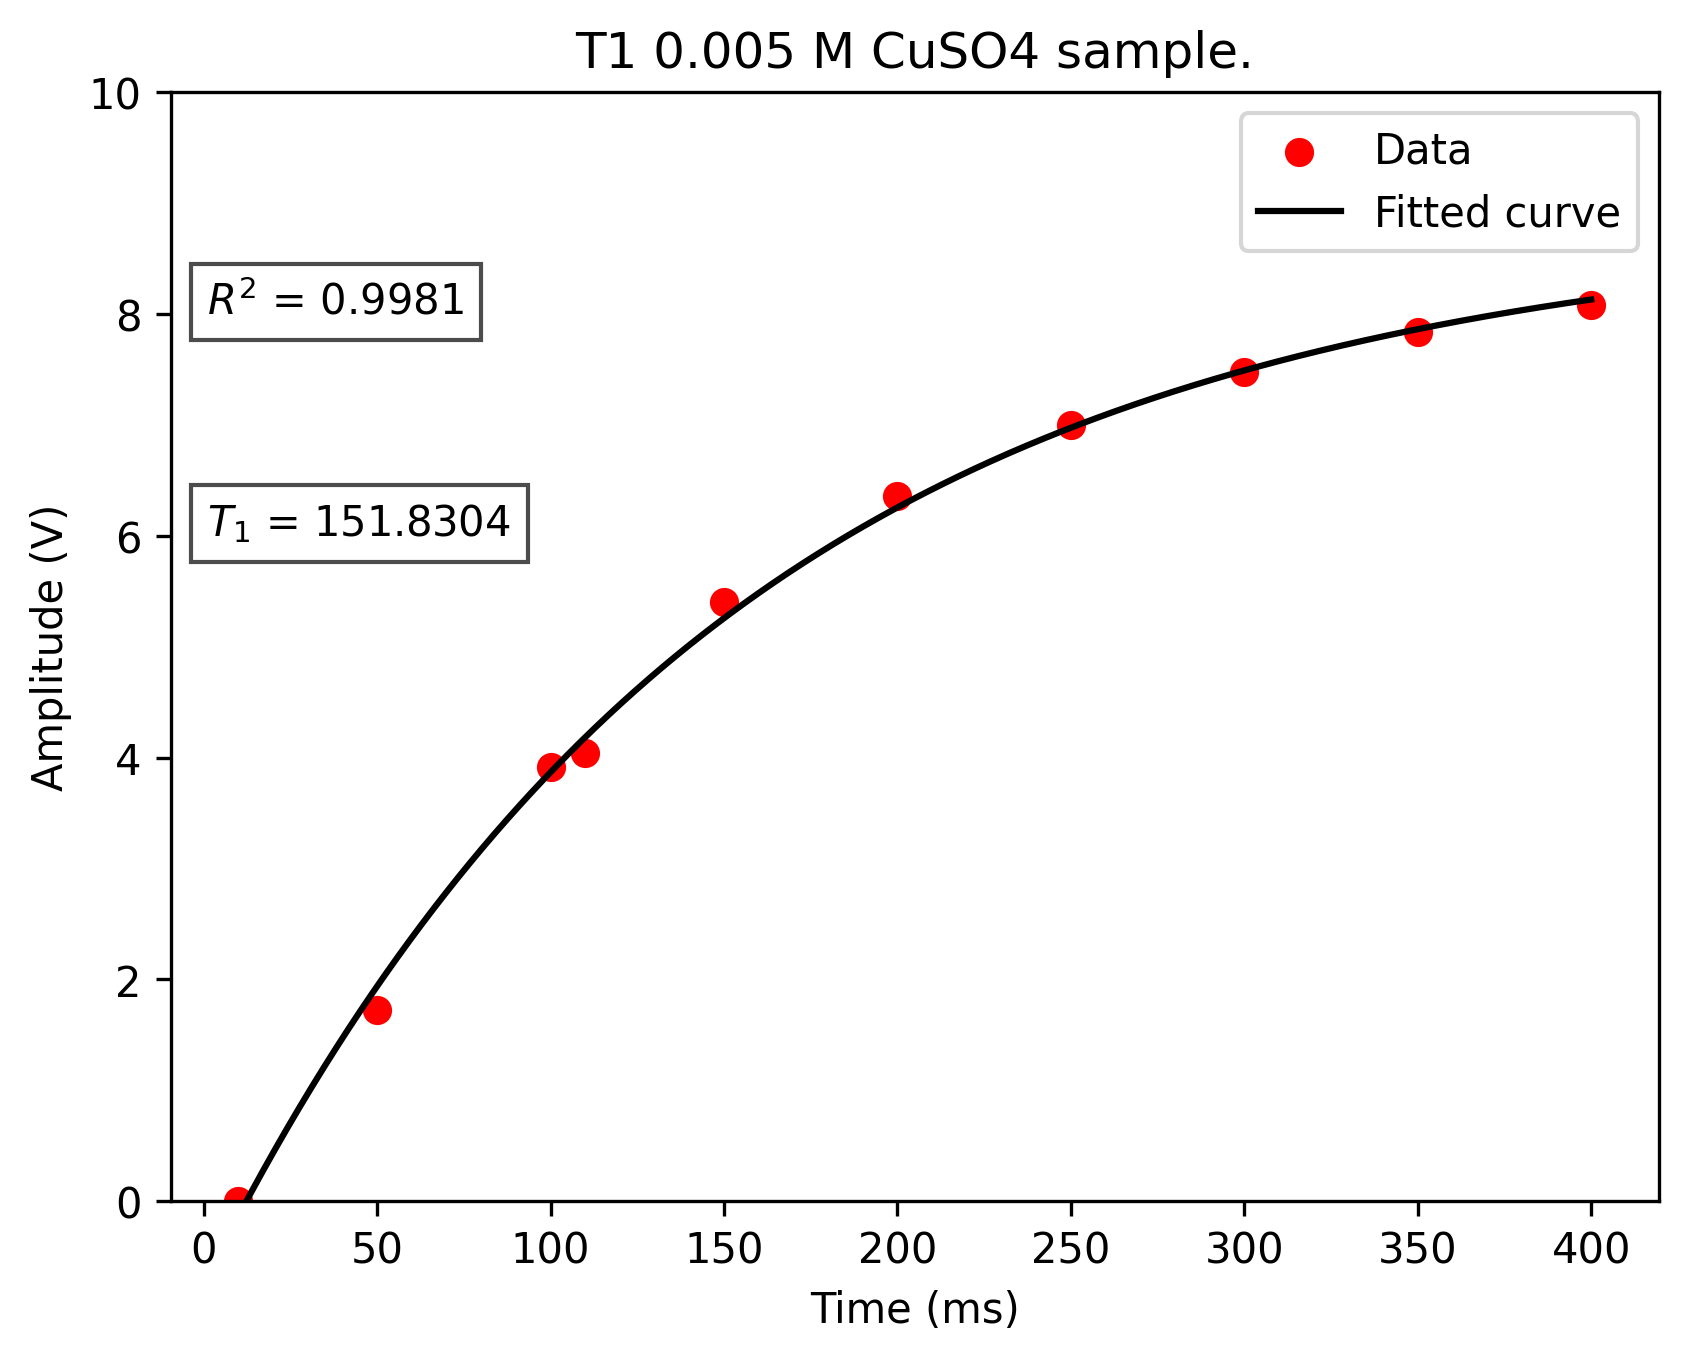
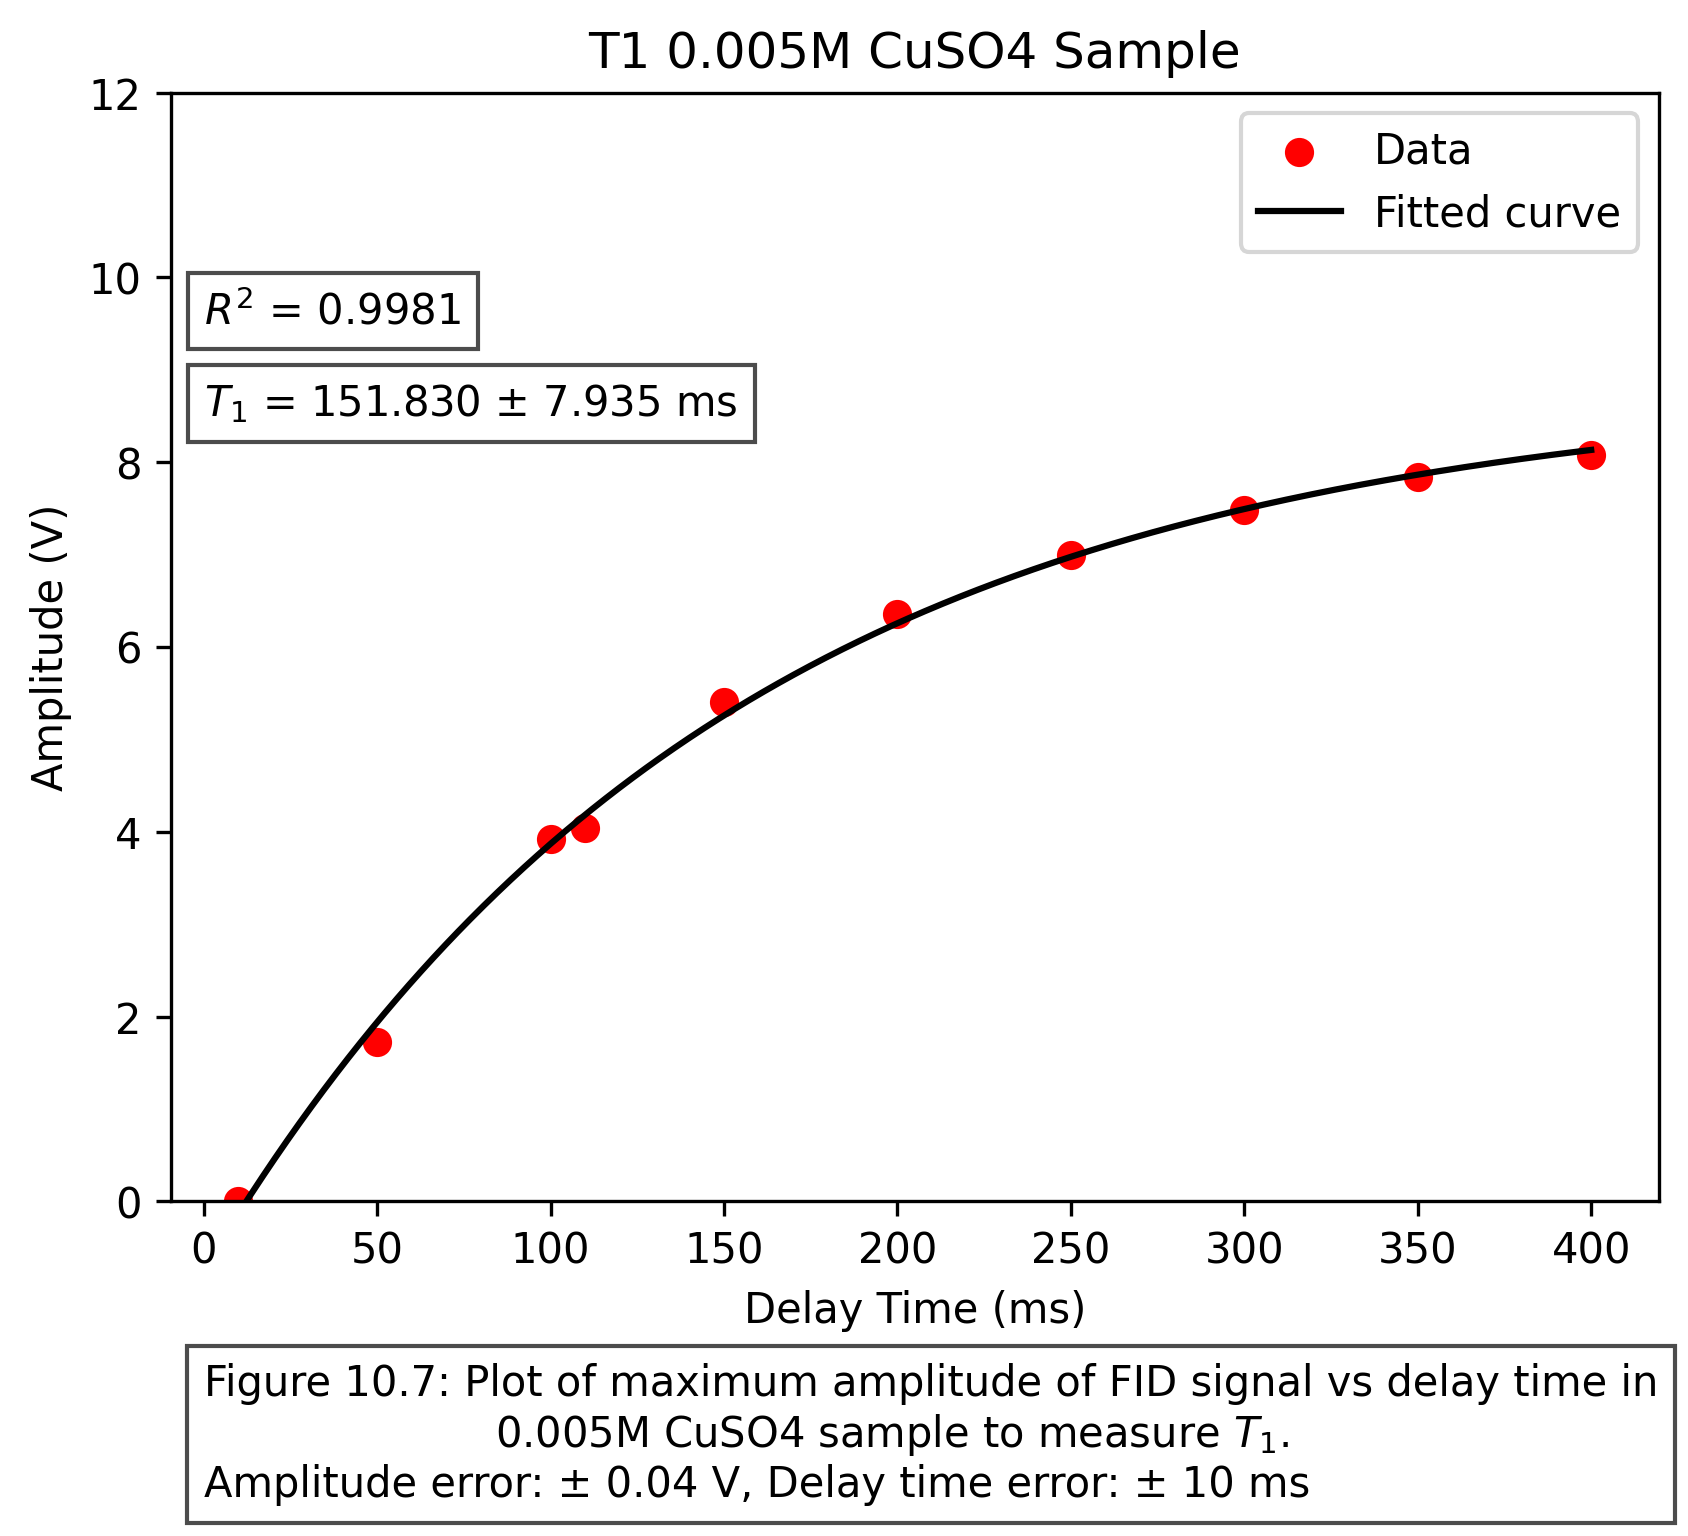
ahhhhhh

diff --git a/T1mineraloil.py b/T1mineraloil.py
@@ -1,48 +1,65 @@
-import matplotlib.pyplot as plt # matplotlib is the plotting package
-import csv # This is for reading .csv files
-import numpy as np # For large arrays and functions that operate on them
-from scipy.optimize import curve_fit # For various special functions, optimization, linear algebra, integration
+import matplotlib.pyplot as plt  # For plotting
+import numpy as np  # For numerical operations
+from scipy.optimize import curve_fit  # For curve fitting
+from scipy.stats import sem  # For standard error calculation
 
-time = [10, 50, 100, 110, 150, 200, 250, 300, 350, 400]
-amplitude = [-4.04, -2.32, -0.12, 0.00, 1.36, 2.32, 2.96, 3.44, 3.80, 4.04]
+# Given data
+time = np.array([10, 50, 100, 110, 150, 200, 250, 300, 350, 400])
+amplitude = np.array([-4.04, -2.32, -0.12, 0.00, 1.36, 2.32, 2.96, 3.44, 3.80, 4.04])
 
-amplitude = [val + np.abs(amplitude[0]) for val in amplitude]
+# Shift amplitude values to positive domain
+amplitude = amplitude + np.abs(amplitude[0])
 
-def f(t, a, tau, c): # Here we define the function used in the fit
-    return a * (1-np.exp(-t/tau)) + c
+# Define fitting function
+def f(t, a, tau, c):
+    return a * (1 - np.exp(-t / tau)) + c
 
-initial_values = np.array([4.2, 120, 0]) # We create an array from expected initial values
+# Initial guess for curve fitting
+initial_values = np.array([3.5, 0.7, 0.0])
 
-popt, pcov = curve_fit(f, time, amplitude, p0 = initial_values) # Fit the function
-a = popt[0] # popt is a list of the optimized values for the fit parameters
-tau = popt[1]
-c = popt[2]
-p_sigma = np.sqrt(np.diag(pcov)) # Error (standard deviation) is the square root of variance in the diagonals of pcov matrix
-print(popt) # Prints the values for the fit parameters
-print(p_sigma) # Prints the errors for the fit parameters
+# Fit the function
+popt, pcov = curve_fit(f, time, amplitude, p0=initial_values)
 
-# Calculate R2 value
-y_pred = f(np.array(time), *popt)
-y_true = np.array(amplitude)
-ss_res = np.sum((y_true - y_pred) ** 2)
-ss_tot = np.sum((y_true - np.mean(y_true)) ** 2)
+# Extract fitted parameters and their uncertainties
+a, tau, c = popt
+p_sigma = np.sqrt(np.diag(pcov))  # Standard deviation (errors) from covariance matrix
+tau_error = round(p_sigma[1], 3)  # Extract error in T1 and round to 3 significant figures
+
+# Compute R² value for goodness of fit
+y_pred = f(time, *popt)
+ss_res = np.sum((amplitude - y_pred) ** 2)
+ss_tot = np.sum((amplitude - np.mean(amplitude)) ** 2)
 r2 = 1 - (ss_res / ss_tot)
 
-x_fitted = np.linspace(np.min(time), np.max(time), 1000) # Create an array from the time limits with 1000 items
-y_fitted = a * (1 - np.exp(-x_fitted/tau)) + c # Create the fitted curve
-plt.scatter(time, amplitude, c = 'r', label = 'Data') # Makes the plot
-plt.plot(x_fitted, y_fitted, 'k', label = 'Fitted curve') # Plots the fit curve
-plt.ylim(0, 10) # Set y-axis limits
-plt.title('T1 0.005 M CuSO4 sample.')
-plt.xlabel('Time (ms)') # The x-axis label
-plt.ylabel('Amplitude (V)') # The y-axis label
-plt.legend() # Show legend
+# Compute standard error of amplitude (optional but adds more error estimation)
+amplitude_error = round(sem(amplitude), 3)
 
-# Display R2 value on the plot
-plt.text(1.0, 8.0, f'$R^2$ = {r2:.4f}', fontsize=10, bbox=dict(facecolor='white', alpha=0.7))
-plt.text(1.0, 6.0, f'$T_1$ = {tau:.4f}', fontsize=10, bbox=dict(facecolor='white', alpha=0.7))
+# Generate smooth curve for fitted function
+x_fitted = np.linspace(np.min(time), np.max(time), 1000)
+y_fitted = f(x_fitted, *popt)
 
+# Plot data and fitted curve
+plt.scatter(time, amplitude, c='r', label='Data')
+plt.plot(x_fitted, y_fitted, 'k', label='Fitted curve')
+plt.ylim(0, 12)
+plt.title('T1 0.005M CuSO4 Sample')
+plt.xlabel('Delay Time (ms)')
+plt.ylabel('Amplitude (V)')
+plt.legend()
+
+# Display R² and T1 values with errors
+plt.text(0.2, 9.5, f'$R^2$ = {r2:.4f}', fontsize=10, bbox=dict(facecolor='white', alpha=0.7))
+plt.text(0.2, 8.5, f'$T_1$ = {tau:.3f} ± {tau_error} ms', fontsize=10, bbox=dict(facecolor='white', alpha=0.7))
+plt.text(0.0, -3.2, f'Figure 10.7: Plot of maximum amplitude of FID signal vs delay time in\n' 
+                    f'                      0.005M CuSO4 sample to measure $T_1$.\n'
+                    f'Amplitude error: ± 0.04 V, Delay time error: ± 10 ms',
+         fontsize=10, bbox=dict(facecolor='white', alpha=0.7))
+
+
+# Save and display plot
 plt.savefig('T1_CuSO4_0005M.png', dpi=300, bbox_inches='tight')
 plt.show()
 
 print("Plot saved.")
+print(f"T1 = {tau:.3f} ± {tau_error} ms")
+print(f"Amplitude SEM = ± {amplitude_error} V")

diff --git a/T2mineraloil.py b/T2mineraloil.py
@@ -1,45 +1,62 @@
-import matplotlib.pyplot as plt # matplotlib is the plotting package
-import csv # This is for reading .csv files
-import numpy as np # For large arrays and functions that operate on them
-from scipy.optimize import curve_fit # For various special functions, optimization, linear algebra, integration
+import matplotlib.pyplot as plt  # For plotting
+import numpy as np  # For numerical operations
+from scipy.optimize import curve_fit  # For curve fitting
+from scipy.stats import sem  # For standard error calculation
 
-time = [3.1, 6.2, 9.3, 12.4, 15.5, 18.6, 21.7, 24.8, 27.9, 31, 34.1, 37.2, 40.3, 43.4]
-amplitude = [6.24, 6.00, 5.76, 5.48, 5.24, 5.04, 4.80, 4.68, 4.44, 4.32, 4.16, 3.96, 3.80, 3.72]
+# Given Data
+time = np.array([3.1, 9.3, 15.5, 21.7, 27.9, 34.1, 40.3, 46.5, 52.7, 58.9, 65.1, 71.3, 77.5, 83.7])
+amplitude = np.array([6.20, 6.00, 5.76, 5.48, 5.24, 5.04, 4.80, 4.68, 4.44, 4.32, 4.16, 3.96, 3.80, 3.72])
 
-def f(t, a, tau, c): # Here we define the function used in the fit
-    return a * np.exp(-t/tau) + c
+# Define fitting function for T2 decay
+def f(t, a, tau, c):  
+    return a * np.exp(-t / tau) + c
 
-initial_values = np.array([6, 10, 1.5]) # We create an array from expected initial values
+# Initial guess for curve fitting
+initial_values = np.array([3.6, 1.0, 0.3])  
 
-popt, pcov = curve_fit(f, time, amplitude, p0 = initial_values) # Fit the function
-a = popt[0] # popt is a list of the optimized values for the fit parameters
-tau = popt[1]
-c = popt[2]
-p_sigma = np.sqrt(np.diag(pcov)) # Error (standard deviation) is the square root of variance in the diagonals of pcov matrix
-print(popt) # Prints the values for the fit parameters
-print(p_sigma) # Prints the errors for the fit parameters
+# Fit the function to data
+popt, pcov = curve_fit(f, time, amplitude, p0=initial_values)
 
-# Calculate R2 value
-y_pred = f(np.array(time), *popt)
-y_true = np.array(amplitude)
-ss_res = np.sum((y_true - y_pred) ** 2)
-ss_tot = np.sum((y_true - np.mean(y_true)) ** 2)
+# Extract fitted parameters and their uncertainties
+a, tau, c = popt
+p_sigma = np.sqrt(np.diag(pcov))  # Standard deviation (errors) from covariance matrix
+tau_error = round(p_sigma[1], 3)  # Extract error in T2 and round to 3 significant figures
+
+# Compute R² value for goodness of fit
+y_pred = f(time, *popt)
+ss_res = np.sum((amplitude - y_pred) ** 2)
+ss_tot = np.sum((amplitude - np.mean(amplitude)) ** 2)
 r2 = 1 - (ss_res / ss_tot)
 
-x_fitted = np.linspace(np.min(time), np.max(time), 1000) # Create an array from the time limits with 1000 items
-y_fitted = a * np.exp(-x_fitted/tau) + c # Create the fitted curve
-plt.scatter(time, amplitude, c = 'r', label = 'Data') # Makes the plot
-plt.plot(x_fitted, y_fitted, 'k', label = 'Fitted curve') # Plots the fit curve
-plt.ylim(0, 7) # Set y-axis limits
-plt.xlabel('Time (ms)') # The x-axis label
-plt.ylabel('Amplitude (V)') # The y-axis label
-plt.legend() # Show legend
+# Compute standard error of amplitude
+amplitude_error = round(sem(amplitude), 3)
 
-# Display R2 value on the plot
-plt.text(1.0, 2.5, f'$R^2$ = {r2:.4f}', fontsize=10, bbox=dict(facecolor='white', alpha=0.7))
-plt.text(1.0, 3.0, f'$T_2$ = {tau:.4f}', fontsize=10, bbox=dict(facecolor='white', alpha=0.7))
+# Generate smooth curve for fitted function
+x_fitted = np.linspace(np.min(time), np.max(time), 1000)
+y_fitted = f(x_fitted, *popt)
 
+# Plot data and fitted curve
+plt.scatter(time, amplitude, c='r', label='Data')
+plt.plot(x_fitted, y_fitted, 'k', label='Fitted curve')
+plt.ylim(0, 7)
+plt.title('T2 0.005M CuSO4 Sample')
+plt.xlabel('Delay Time (ms)')
+plt.ylabel('Amplitude (V)')
+plt.legend()
+
+# Display calculated values on the plot
+plt.text(0.2, 2.7, f'$R^2$ = {r2:.4f}', fontsize=10, bbox=dict(facecolor='white', alpha=0.7))
+plt.text(0.2, 2.2, f'$T_2$ = {tau:.3f} ± {tau_error} ms', fontsize=10, bbox=dict(facecolor='white', alpha=0.7))
+plt.text(0.0, -2.0, f'Figure 11.7: Plot of maximum amplitude of spin echo vs delay time in CuSO4 0.005M\n'
+                    f'                  sample to measure $T_2$ using the Meibloom-Gill method.\n'
+                    f'Amplitude error: ± 0.12 V, Delay time error: ± 0.1 ms',
+         fontsize=10, bbox=dict(facecolor='white', alpha=0.7))
+
+# Save and display plot
 plt.savefig('T2_CuSO4_0005M.png', dpi=300, bbox_inches='tight')
 plt.show()
 
+# Print final values with errors
 print("Plot saved.")
+print(f"T₂ = {tau:.3f} ± {tau_error} ms")
+print(f"Amplitude SEM = ± {amplitude_error} V")

diff --git a/magnetgraph.py b/magnetgraph.py
@@ -1,22 +1,43 @@
-import matplotlib.pyplot as plt # matplotlib is the plotting package
-import csv # This is for reading .csv files
-import numpy as np # For large arrays and functions that operate on them
-import matplotlib.tri as tri  # For triangulation
+import matplotlib.pyplot as plt
+import numpy as np
+import matplotlib.tri as tri
+from scipy.stats import sem  # Standard error of the mean
 
+# Given frequency measurements
+f_float = np.array([15.41279, 15.41117, 15.40971, 15.40791, 15.40670, 15.40682, 15.40768, 15.40902,
+                     15.41026, 15.41189, 15.41138, 15.41062, 15.40876, 15.40758, 15.40560, 15.40544,
+                     15.40673, 15.40794, 15.40928, 15.4110, 15.41077, 15.40898, 15.40759, 15.40600,
+                     15.40492, 15.41946, 15.41846, 15.41846, 15.4186, 15.41856, 15.41846])
 
-f_float = [15.41279,15.41117,15.40971,15.40791,15.40670,15.40682,15.40768,15.40902,15.41026,15.41189,15.41138,15.41062,15.40876,15.40758,15.40560,15.40544,15.40673,15.40794,15.40928,15.4110,15.41077,15.40898,15.40759,15.40600,15.40492,15.41946,15.41846,15.41846,15.4186,15.41856,15.41846]
-x = [-0.4,-0.2,0.0,0.2,0.4,0.4,0.,0.0,-0.2,-0.4,-0.4,-0.2,0.0,0.2,0.4,0.4,0.2,0.0,-0.2,-0.4,-0.4,-0.2,0.0,0.2,0.4,-0.4,-0.5,-0.4,-0.3,-0.4,-0.4]
-y = [11.4,11.4,11.4,11.4,11.4,11.2,11.2,11.2,11.2,11.2,11.0,11.0,11.0,11.0,11.0,10.8,10.8,10.8,10.8,10.8,10.6,10.6,10.6,10.6,10.6,11.0,11.4,11.4,11.4,11.5,11.3]
-z = 2*np.pi*np.array(f_float)/(100*2.675) # Calculate b-field values
+# Corresponding x and y positions
+x = np.array([-0.4, -0.2, 0.0, 0.2, 0.4, 0.4, 0.0, 0.0, -0.2, -0.4, -0.4, -0.2, 0.0, 0.2, 0.4, 0.4, 0.2, 0.0,
+              -0.2, -0.4, -0.4, -0.2, 0.0, 0.2, 0.4, -0.4, -0.5, -0.4, -0.3, -0.4, -0.4])
+
+y = np.array([11.4, 11.4, 11.4, 11.4, 11.4, 11.2, 11.2, 11.2, 11.2, 11.2, 11.0, 11.0, 11.0, 11.0, 11.0, 10.8,
+              10.8, 10.8, 10.8, 10.8, 10.6, 10.6, 10.6, 10.6, 10.6, 11.0, 11.4, 11.4, 11.4, 11.5, 11.3])
+
+# Constants
+gamma = 2.675  # Gyromagnetic ratio in (10^8 rad/s/T)
+
+# Compute magnetic field strength (B-field)
+z = 2 * np.pi * f_float / (100 * gamma)  
+
+# Compute error using standard error of the mean (SEM)
+z_error = round(sem(z), 4)  # SEM provides a more statistical approach to error estimation
 
 # Use triangulation for contour plotting
 triang = tri.Triangulation(x, y)
 plt.tricontourf(triang, z)  # Use tricontourf for unstructured data
 
-# Add labels, colorbar, and save the plot
+# Add labels, colorbar, and error information
 plt.colorbar(label="Magnetic field (T)", format="%.4f")
 plt.title('Magnetic Field Uniformity Plot')
-plt.xlabel('X (a.u.)')
-plt.ylabel('Y (a.u.)')
+plt.xlabel('X (cm)')
+plt.ylabel('Y (cm)')
+plt.text(0.0, 10.4, f'Figure 7: Plot of magnetic field intensity as a function of position.\n'
+                    f'X and Y error: ± 0.08 cm, Magnetic Field error (SEM): ± {z_error} T',
+         fontsize=10, bbox=dict(facecolor='white', alpha=0.7))
+
+# Save and display plot
 plt.savefig('magnetgraph.png', dpi=300, bbox_inches='tight')
 plt.show()

diff --git a/1_T1.py b/1_T1.py
@@ -1,0 +1,42 @@
+import matplotlib.pyplot as plt  # For plotting
+import numpy as np  # For numerical operations
+from scipy.stats import linregress, sem  # For linear regression & standard error calculation
+
+# Given Data (T1 relaxation time and corresponding molarity)
+T1 = np.array([1.022, 0.662, 0.278, 0.091, 0.048, 0.010, 0.007 ])
+molarity = np.array([1, 0.5, 0.2, 0.1, 0.05, 0.01, 0.005])
+
+# Perform linear regression (fit a straight line to the data)
+slope, intercept, r_value, p_value, std_err = linregress(T1, molarity)
+
+# Generate fitted line for plotting
+x_fitted = np.linspace(np.min(T1), np.max(T1), 1000)
+y_fitted = slope * x_fitted + intercept
+
+# Compute standard error of molarity
+molarity_error = round(sem(molarity), 3)
+
+# Plot data and fitted line
+plt.scatter(T1, molarity, c='r', label='Data')
+plt.plot(x_fitted, y_fitted, 'k', label='Linear Fit')
+plt.ylim(0, 2)
+plt.title('Linear Fit of Molarity vs. T1 in CuSO4 Solution')
+plt.xlabel('1/T1 (ms^-1)')
+plt.ylabel('Molarity (M)')
+plt.legend()
+
+# Display calculated values on the plot
+plt.text(0.1, 1.5, f'$R^2$ = {r_value**2:.4f}', fontsize=10, bbox=dict(facecolor='white', alpha=0.7))
+plt.text(0.1, 1.3, f'Slope = {slope:.4f} ± {std_err:.4f}', fontsize=10, bbox=dict(facecolor='white', alpha=0.7))
+plt.text(0.0, -0.6, f'Figure 12.1: Plot of Molarity in moles vs 1/T1 in inverse ms in\n' 
+                    f'                      CuSO4 solutions to test linear relation.',
+         fontsize=10, bbox=dict(facecolor='white', alpha=0.7))
+# Save and display plot
+plt.savefig('1_T1_vs_Molarity_LinearFit.png', dpi=300, bbox_inches='tight')
+plt.show()
+
+# Print final values with errors
+print("Plot saved.")
+print(f"Slope = {slope:.4f} ± {std_err:.4f}")
+print(f"Intercept = {intercept:.4f}")
+print(f"R² = {r_value**2:.4f}")

diff --git a/1_T2.py b/1_T2.py
@@ -1,0 +1,42 @@
+import matplotlib.pyplot as plt  # For plotting
+import numpy as np  # For numerical operations
+from scipy.stats import linregress, sem  # For linear regression & standard error calculation
+
+# Given Data (T1 relaxation time and corresponding molarity)
+T1 = np.array([0.617, 0.412, 0.216, 0.095, 0.046, 0.011, 0.009])
+molarity = np.array([1, 0.5, 0.2, 0.1, 0.05, 0.01, 0.005])
+
+# Perform linear regression (fit a straight line to the data)
+slope, intercept, r_value, p_value, std_err = linregress(T1, molarity)
+
+# Generate fitted line for plotting
+x_fitted = np.linspace(np.min(T1), np.max(T1), 1000)
+y_fitted = slope * x_fitted + intercept
+
+# Compute standard error of molarity
+molarity_error = round(sem(molarity), 3)
+
+# Plot data and fitted line
+plt.scatter(T1, molarity, c='r', label='Data')
+plt.plot(x_fitted, y_fitted, 'k', label='Linear Fit')
+plt.ylim(0, 2)
+plt.title('Linear Fit of Molarity vs. T1 in CuSO4 Solution')
+plt.xlabel('1/T2 (ms^-1)')
+plt.ylabel('Molarity (M)')
+plt.legend()
+
+# Display calculated values on the plot
+plt.text(0.1, 1.5, f'$R^2$ = {r_value**2:.4f}', fontsize=10, bbox=dict(facecolor='white', alpha=0.7))
+plt.text(0.1, 1.3, f'Slope = {slope:.4f} ± {std_err:.4f}', fontsize=10, bbox=dict(facecolor='white', alpha=0.7))
+plt.text(0.0, -0.6, f'Figure 12.1: Plot of Molarity in moles vs 1/T2 in inverse ms in\n' 
+                    f'                      CuSO4 solutions to test linear relation.',
+         fontsize=10, bbox=dict(facecolor='white', alpha=0.7))
+# Save and display plot
+plt.savefig('1_T2_vs_Molarity_LinearFit.png', dpi=300, bbox_inches='tight')
+plt.show()
+
+# Print final values with errors
+print("Plot saved.")
+print(f"Slope = {slope:.4f} ± {std_err:.4f}")
+print(f"Intercept = {intercept:.4f}")
+print(f"R² = {r_value**2:.4f}")
